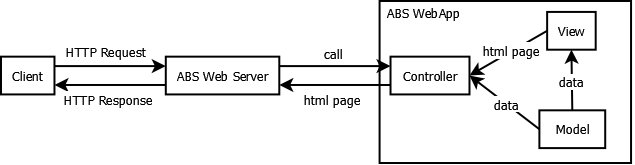
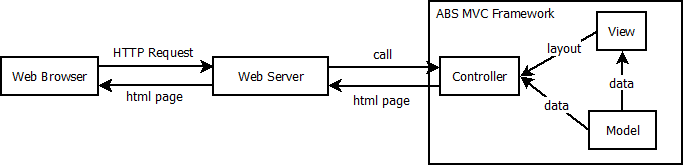
Menambahkan bab Perancangan Framework
menambahkan tulisan tentang perancangna ABS MVC Framework

Changed region(s): [[0.0, 0.0, 1.0, 1.0], [0.8677, 0.303, 0.9276, 0.6667]]

diff --git a/DesainRancangan.tex b/DesainRancangan.tex
@@ -1,0 +1,63 @@
+\chapter{Perancangan ABS MVC Framework}
+
+Bab ini berisi rancangan ABS MVC Framework yang penulis buat sebelum melakukan tahap implementasi kode.
+
+\section{Gambaran Umum}
+
+ABS MVC Framework merupakan sebuah alat bantu yang dapat digunakan oleh para pengembang perangkat lunak dalam membuat sebuah aplikasi berbasis web dengan menggunakan bahasa pemodelan ABS. Layaknya MVC Framework yang lain seperti Play Framework (JAVA) \footnote{https://www.playframework.com/} dan Laravel (PHP) \footnote{http://laravel.com/}, ABS MVC Framework dibuat dengan tujuan untuk membantu para pengembang perangkat lunak dalam menerapkan pola Model-View-Controller (MVC) untuk keperluan pengembangan aplikasi web. Oleh karena itu, terdapat beberapa fitur utama yang harus dimiliki oleh ABS MVC Framework sebagai sebuah MVC Framewrok yang diantara adalah:
+
+\begin{enumerate}
+    \item ABS MVC Framework harus dapat membantu pengguna \textit{framework} untuk dapat menghasilkan sebuah halaman web yang statis maupun dinamis.
+    \item ABS MVC Framework harus dapat membantu pengguna \textit{framework} untuk dapat memisahkan kode yang mereka buat kedalam komponen Model, View dan Controller.
+    \item Setiap komponen MVC yang dibuat harus memiliki karakteristik yang jelas sehingga dapat dibedakan mana komponen Model, View dan Controller.
+    \item ABS MVC Framework harus dapat membantu pengguna \textit{framework} dalam memetakan setiap HTTP \textit{request} yang diterima kedalam setiap operasi yang spesifik sehingga diperoleh sebuah halaman web yang sesuai.
+    \item ABS MVC Framework harus dapat memebantu pengguna \textit{framework} dalam menerima dan memproses \textit{input} yang diberikan oleh pengguna aplikasi web dalam bentuk HTTP POST atau GET data. 
+\end{enumerate}
+
+Berdasarkan rincian fitur di atas, penulis membuat sebuah rancangan untuk ABS MVC Framework yang nantinya akan dijadikan acuan dalam proses implementasi.
+
+\section{Rancangan ABS MVC Framework}
+
+Setelah adanya pemaparan tentang gambaran umum fitur yang harus dimiliki oleh ABS MVC Framework, penulis membuat sebuah desain tentang bagaimana alur kerja ABS MVC Framework dimuali dari mendapatkan HTTP \textit{request} sampai dengan menampilkan halaman web pada \textit{web browser}. Berikut ini adalah desain yang penulis buat untuk ABS MVC Framework:
+
+\begin{figure}
+    \centering
+    \includegraphics[width=0.8\textwidth]{img/abs-mvc.png}
+    \caption{Rancangan ABS MVC Framework}
+    \label{fig:mvcFrameworkDesign}
+\end{figure}
+
+Seperti yang terlihat pada gambar \ref{fig:mvcFrameworkDesign} di atas, alur pembuatan halaman web dimulai dari sebuah HTTP \textit{request} yang dikirimkan oleh pengguna web kepada \textit{web server} melalui aplikasi \textit{web browser} yang mereka gunakan. Setelah HTTP \textit{request} tersebut diterima oleh \textit{web server}, berikutnya adalah meneruskan \textit{request} tersebut kapada ABS MVC Framework untuk memperoleh halaman web yang diinginkan. Setelah \textit{web server} berhasil memperoleh halaman web yang diinginkan, selanjutnya \textit{web server} akan memberikan halaman tersebut kepada \textit{web browser} untuk kemudian ditampilkan kepada pengguna web. Melalui mekanisme inilah seorang pengguna web dapat mengakses halaman web yang telah dibuat.\\
+
+Berdasarkan pada rancangan tersebut, penulis menyimpulkan bahwa terdapat tiga buah isu yang harus diperhatikan dalam menyusun ABS MVC Framework yang diantaranya adalah:
+
+\begin{enumerate}
+    \item Bagaimana mekanisme pemetaan yang dapat dilakukan dalam memetakan setiap HTTP \textit{request} kedalam setiap komponen Controller pada ABS MVC Framework.
+    \item Bagaimana mekanisme yang dapat dilakukan agar ABS MVC Framework dapat menerima dan memproses setiap HTTP POST dan GET data yang diterima oleh \textit{web server}.
+    \item Bagaimana karakteristik setiap komponen MVC yang ada di pada ABS MVC Framework.
+\end{enumerate}
+\subsection{Mekanisme Pemetaan HTTP Request}
+
+Dalam konteks pengembangan aplikasi web dengan menggunakan MVC Framework, setiap \textit{request} yang diberikan oleh pengguna aplikasi harus dipetakan kedalam setiap komponen Controller yang dibuat. Tujuannya adalah agar \textit{web server} dapat mengetahui dengan pasti komponen Controller manakah yang harus dipanggil pada saat menerima \textit{request} dari \textit{web browser}. Untuk dapat merealisasikan hal tersebut, dibutuhkan adanya mekanisme khusus yang dapat digunakan oleh pengguna \textit{framework} untuk dapat memetakan setiap \textit{request} yang diterima secara cepat dan mudah.
+
+\begin{figure}
+    \centering
+    \includegraphics[width=0.8\textwidth]{img/mvc-routing-mechanism}
+    \caption{Rancangan mekanisme pemetaan \textit{request} pada ABS MVC Framework}
+    \label{fig:mvcRoutingMechanism}
+\end{figure}
+
+Seperti yang terlihat pada gambar \ref{fig:mvcFrameworkDesign} di atas, pada ABS MVC Framework proses pemetaan HTTP \textit{request} dilakukan oleh sebuah komponen yang bernama HTTP Request Router. Melalui komponen ini, setiap \textit{request} yang diberikan oleh \textit{web server} akan dipetakan kedalam setiap komponen Controller yang berada di dalam \textit{framework}. Dengan demikian, ABS MVC Framework akan dapat menghasilkan halaman web yang sesuai dengan permintaan dari \textit{web browser}.
+
+\subsection{Mekanisme Penanganan HTTP POST dan GET data}
+
+Seperti yang sudah penulis sebutkan pada rincian fitur ABS MVC Framework, salah satu fitur yang harus dimiliki oleh \textit{framework} ini selain dapat melakukan pemetaan HTTP Request kedalam komponen Controller adalah kemampuannya dalam menerima dan memperoses \textit{input} yang diberikan dalam bentuk HTTP POST dan GET data. Tujuan dari adanya fitur ini adalah agar aplikasi web yang dibuat dapat menerima \textit{input} dari pengguna dan menghasilkan sebuah halaman web yang dinamis. Untuk dapat merealisasikan hal tersebut, dibutuhkan adanya sebuah mekanisme yang dapat digunakan oleh \textit{web server} untuk dapat meneruskan HTTP POST dan GET data yang diterima dari \textit{web server} kepada ABS MVC Framework. Berikut ini adalah rancangan yang penulis buat untuk mengani HTTP POST dan GET data pada ABS MVC Framework.
+
+\begin{figure}
+    \centering
+    \includegraphics[width=0.8\textwidth]{img/mvc-http-input.png}
+    \caption{Rancangan mekanisme penanganan \textit{input} pada ABS MVC Framework}
+    \label{fig:mvcHttpInputMechanism}
+\end{figure}
+
+Terlihat pada gambar \ref{fig:mvcHttpInputMechanism} di atas, setiap HTTP \textit{request} yang diterima oleh \textit{web server} akan dibuat menjadi sebuah objek JAVA. Objek yang berisikan HTTP POST atau GET data ini nantinya akan dikonversi menjadi sebuah Objek ABS dan diberikan kepada ABS MVC Framework untuk kemudian digunakan oleh komponen Controller. Dengan menggunakan cara ini, pengguna ABS MVC Framework dapat menerima dan memproses \textit{input} yang diberikan oleh \textit{web server} melalui komponen Controller yang dibuat.

diff --git a/Implementasi2.tex b/Implementasi2.tex
@@ -28,7 +28,7 @@ Struktur direkretori dalam sebuah framework MVC berperan dalam membantu para pen
     \label{fig:strukturDirektori}
 \end{figure}
 
-Berdasarkan susunan direktori seperti yang terlihat pada gambar \ref{fig:struktrDirektori} di atas, seluruh komponen MVC yang dibuat (misal: modul MMahasiswa, MMahasiswaController dan berkas HTML) akan diletakkan di dalam direktori \texttt{src/abs/(model, view, controller)}. Setelah seluruh komponen MVC diletakkan di dalam direktorinya masing-masing, nantinya framework MVC ini akan meng\textit{compile} seluruh kode ABS yang ada serta membungkusnya kedalam berkas JAVA \textit{archive} (jar) dan meletakannya di dalam direktori \texttt{dist}.\\
+Berdasarkan susunan direktori seperti yang terlihat pada gambar \ref{fig:strukturDirektori} di atas, seluruh komponen MVC yang dibuat (misal: modul MMahasiswa, MMahasiswaController dan berkas HTML) akan diletakkan di dalam direktori \texttt{src/abs/(model, view, controller)}. Setelah seluruh komponen MVC diletakkan di dalam direktorinya masing-masing, nantinya framework MVC ini akan meng\textit{compile} seluruh kode ABS yang ada serta membungkusnya kedalam berkas JAVA \textit{archive} (jar) dan meletakannya di dalam direktori \texttt{dist}.\\
 
 Sampai sejauh ini penulis telah berhasil melakukan penyusunan direktori untuk \textit{framework} MVC ABS. Hal berikutnya yang penulis lakukan adalah membuat sebuah \textit{script} yang akan digunakan untuk melakukan proses kompilasi dan \textit{deployment} secara otomatis.
 

diff --git a/Implementasi.tex b/Implementasi.tex
@@ -1,4 +1,4 @@
-\chapter{Percobaan Pembuatan Halaman Web Menggunakan ABS}
+\chapter{Pembuatan Halaman Web Menggunakan ABS}
 
 Bab ini memaparkan secara kronologis tentang proses eksperimen yang telah dilakukan oleh penulis untuk mencoba menghasilkan sebuah halaman web dengan menggunakan bahasa pemodelan ABS.
 
@@ -439,12 +439,12 @@ escapeinside={@}{@}
 			</tr>
 		</thead>
 		<tbody>
-			<tr th:each="mahasiswa: ${mahasiswaList}">
+			<tr th:each="mahasiswa: ${mahasiswaList}"> @\label{lst:thymeStartLoop}@
 				<td th:text="${#ids.seq('')}"></td>
 				<td th:text="${mahasiswa.npm}"></td>
 				<td th:text="${mahasiswa.nama}"></td>
 				<td th:text="${mahasiswa.alamat}"></td>
-			</tr>
+			</tr> @\label{lst:thymeEndLoop}@
 		</tbody>
 	</table>
 </body>

diff --git a/00-Thesis.tex b/00-Thesis.tex
@@ -42,6 +42,7 @@
 \tableofcontents
 \clearpage
 \listoffigures
+\lstlistoflistings
 \clearpage
 
 \pagenumbering{arabic}
@@ -51,6 +52,7 @@
 \include{RumusanMasalah}
 \include{LandasanTeori}
 \include{RancanganPenelitian}
+\include{DesainRancangan}
 \include{Implementasi}
 \include{Implementasi2}
 \include{Implementasi3}

diff --git a/Implementasi3.tex b/Implementasi3.tex
@@ -1,4 +1,4 @@
-\chapter{Pembuatan Aplikasi Web Sederhana Menggunakan ABS MVC Framework}
+\chapter{Penerapan ABS MVC Framework}
 
 Pada bab ini penulis akan memberikan contoh membuat sebuah aplikasi web sederhana dengan menggunakan ABS MVC Framework.
 
